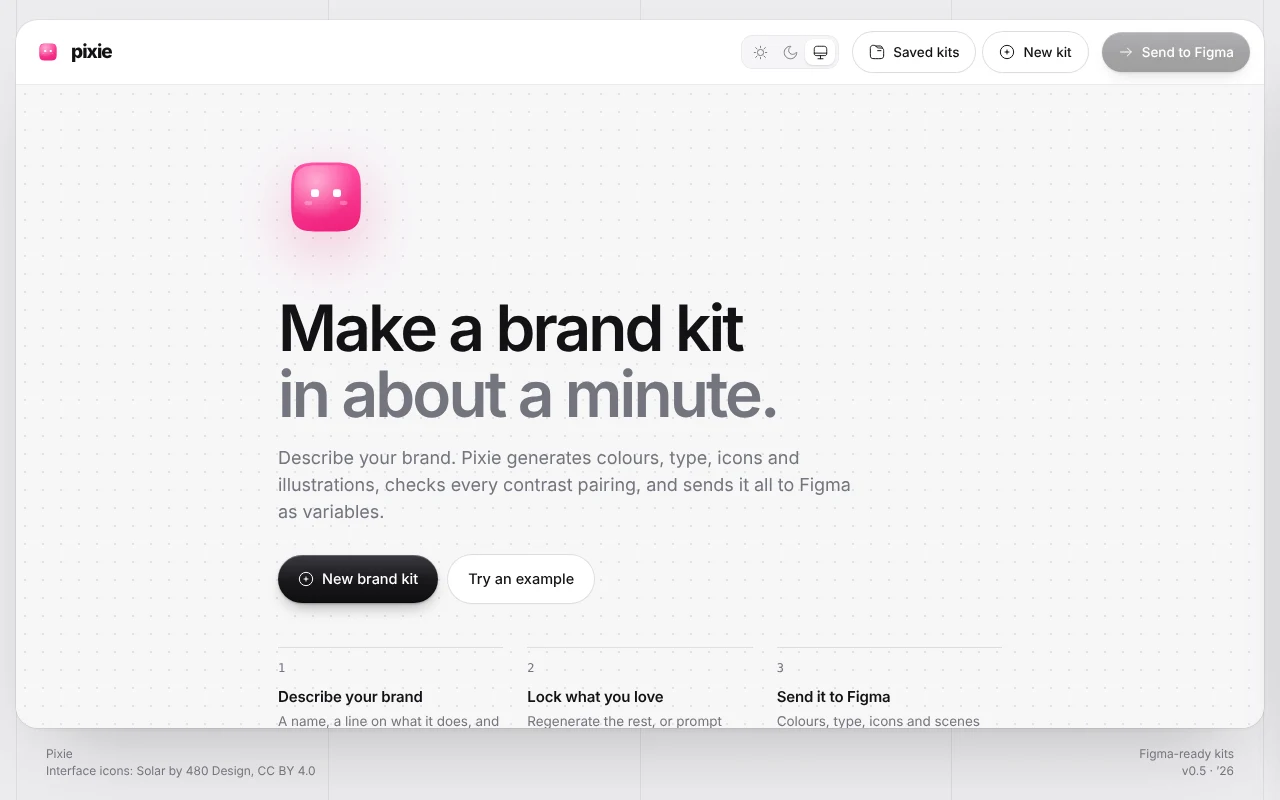
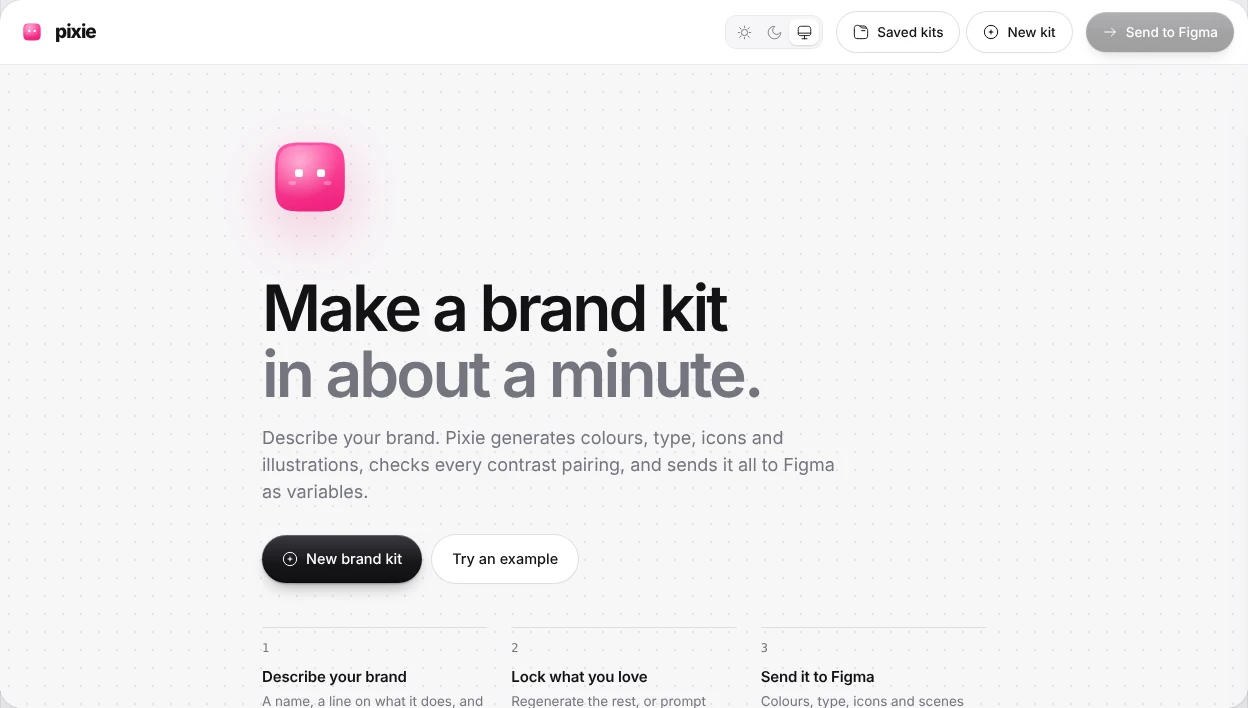
Selected works: fit homepage screenshots inside framed cards
Claude-Session: https://claude.ai/code/session_01A2m4LmWmyoZ2m4uxG8GMBA

diff --git a/portfolio/index.html b/portfolio/index.html
@@ -1066,12 +1066,12 @@ img.fly{position:fixed;z-index:40;object-fit:cover;object-position:top center;po
 .sw-meta .cta{color:var(--fg);font-size:14px;white-space:nowrap}
 .sw-meta .cta i{font-style:normal;display:inline-block;transition:transform .3s}
 .sw-item:hover .cta i{transform:translateX(4px)}
-.sw-cover{position:absolute;inset:0;width:100%;height:100%;object-fit:cover;object-position:top center;transition:scale .8s cubic-bezier(.32,.72,0,1)}
-.sw-item:hover .sw-cover{scale:1.03}
+.sw-cover{position:absolute;left:50%;top:50%;translate:-50% -50%;width:84%;height:auto;border-radius:12px;box-shadow:0 0 0 1px rgba(0,0,0,.06),0 30px 60px -24px rgba(0,0,0,.45);transition:scale .8s cubic-bezier(.32,.72,0,1)}
+.sw-item:hover .sw-cover{scale:1.025}
 .sw-view{position:fixed;left:0;top:0;width:92px;height:92px;margin:-46px 0 0 -46px;border-radius:50%;background:#efeee9;color:#111;display:grid;place-items:center;font-size:13px;font-weight:500;pointer-events:none;z-index:30;scale:0;transition:scale .35s cubic-bezier(.34,1.4,.64,1)}
 .sw-view.on{scale:1}
 @media (hover:none){.sw-view{display:none}}
-@media (max-width:640px){.sw-item{width:86vw}.sw-media{aspect-ratio:16/11}.sw-brand{top:30%}.sw-phone{right:50%;translate:50% 0;top:auto;bottom:-14%;height:66%;rotate:0deg}.sw-blurb{display:none}.sw-shot{width:92%}.sw-track{padding-inline:7vw}}
+@media (max-width:640px){.sw-item{width:86vw}.sw-media{aspect-ratio:4/3}.sw-cover{width:90%}.sw-brand{top:30%}.sw-phone{right:50%;translate:50% 0;top:auto;bottom:-14%;height:66%;rotate:0deg}.sw-blurb{display:none}.sw-shot{width:92%}.sw-track{padding-inline:7vw}}
 @media (prefers-reduced-motion:reduce){.sw-phone,.sw-shot,.sw-view{transition:none}}
 </style>
 <script>try{if(!sessionStorage.getItem("dd-booted")&&!matchMedia("(prefers-reduced-motion: reduce)").matches)document.documentElement.setAttribute("data-booting","")}catch(e){}</script>
@@ -1363,11 +1363,11 @@ ${bio()}
     <section class="sw"><p class="label">Selected works</p></section>
     <div class="sw-rail" id="swRail"><div class="sw-track">
       <a class="sw-item" href="#sello">
-        <div class="sw-media"><img class="sw-cover" src="img/sello-cover.webp" alt="Sello homepage: Sell in the DMs, without living in them"></div>
+        <div class="sw-media" style="background:linear-gradient(160deg,#f6dccd,#e7a27e)"><img class="sw-cover" src="img/sello-cover.webp" alt="Sello homepage: Sell in the DMs, without living in them"></div>
         <div class="sw-meta"><div><b>Sello</b><span>AI product · Design and build · Live demo</span></div><span class="cta">Read case study <i>→</i></span></div>
       </a>
       <a class="sw-item" href="#pixie">
-        <div class="sw-media"><img class="sw-cover" src="img/pixie-cover.webp" alt="Pixie homepage: Make a brand kit in about a minute" loading="lazy"></div>
+        <div class="sw-media" style="background:linear-gradient(160deg,#f1e9ff,#c9b0ff)"><img class="sw-cover" src="img/pixie-cover.webp" alt="Pixie homepage: Make a brand kit in about a minute" loading="lazy"></div>
         <div class="sw-meta"><div><b>Pixie</b><span>AI tool · Web app and Figma plugin</span></div><span class="cta">Read case study <i>→</i></span></div>
       </a>
     </div></div>
